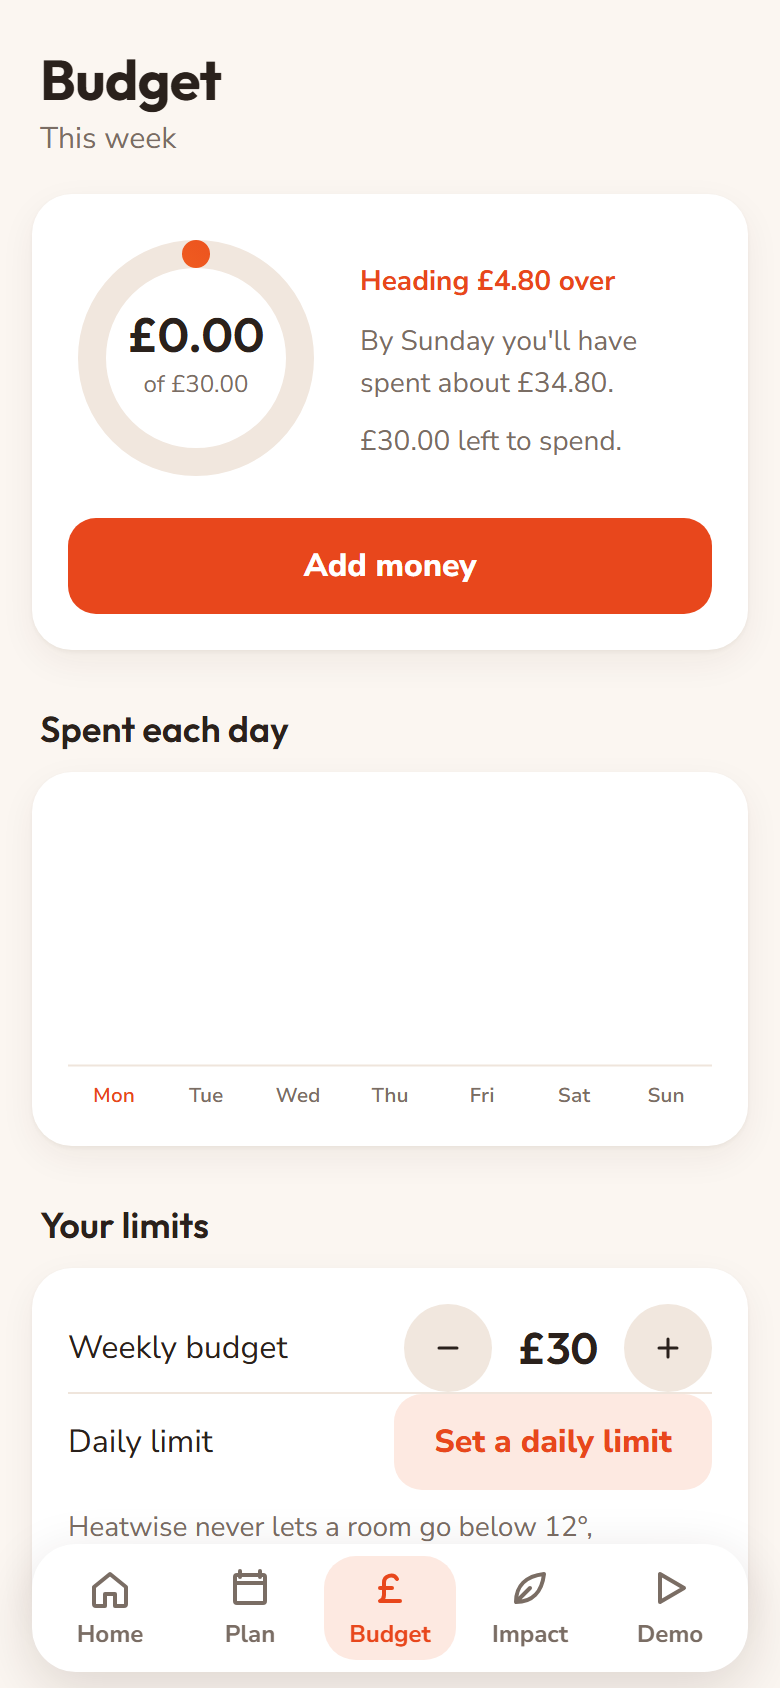
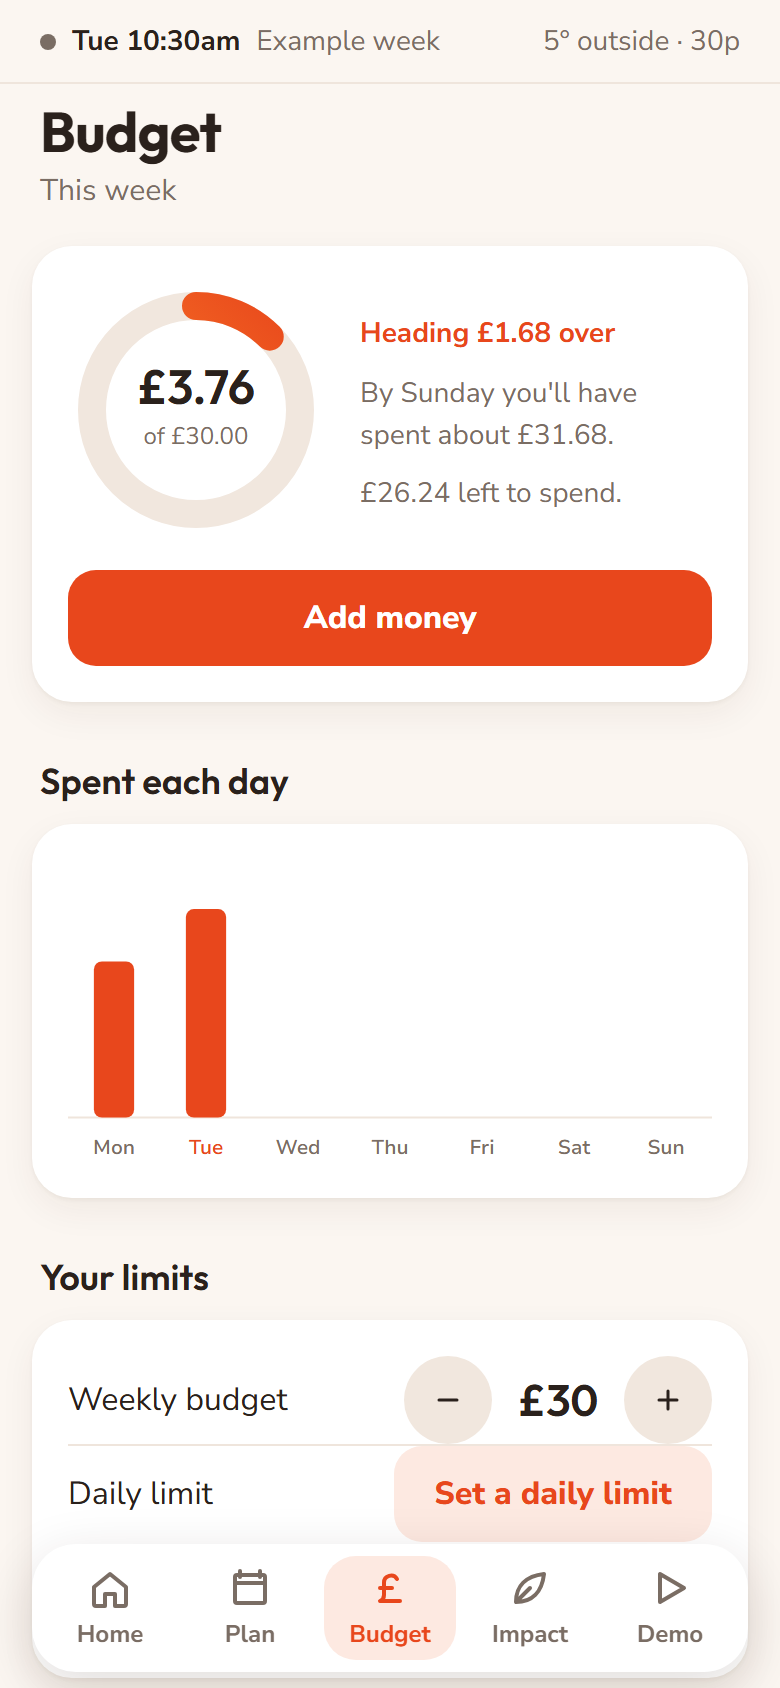
Clock bar, house drawing, and side-by-side simulation panel on wide screens

diff --git a/app/js/main.js b/app/js/main.js
@@ -1,6 +1,7 @@
 // App shell: tab bar (TabView), a navigation stack per tab, and rendering from the store.
 import { api, store, subscribe } from "./api.js";
 import { h, icon } from "./ui.js";
+import { time12 } from "./format.js";
 import * as theme from "./theme.js";
 import * as home from "./screens/home.js";
 import * as room from "./screens/room.js";
@@ -36,6 +37,9 @@ nav.push = (screen, arg) => { scroll[key()] = window.scrollY; stack().push({ scr
 nav.back = () => { stack().pop(); draw(); window.scrollTo(0, scroll[key()] || 0); };
 const key = () => nav.tab + stack().map(s => `/${s.screen}:${s.arg}`).join("");
 
+const wide = () => matchMedia("(min-width: 900px)").matches;
+matchMedia("(min-width: 900px)").addEventListener("change", () => { if (wide() && nav.tab === "demo") nav.tab = "home"; draw(); });
+
 function selectTab(id) {
   if (id === nav.tab && stack().length) nav.stacks[id] = [];  // tapping the current tab pops to root, like iOS
   scroll[key()] = window.scrollY;
@@ -52,10 +56,24 @@ function draw(pushed = false) {
     ? h("button", { class: "back", onclick: nav.back, "aria-label": `Back to ${tab.label}` }, icon("back", 20), tab.label)
     : null;
   const page = h("main", { class: pushed ? "enter" : "" }, backBtn, content);
+  const st = store.state;
+  document.getElementById("clockbar").replaceChildren(...(st ? [
+    h("span", { class: "dot" + (st.mode === "realtime" ? " live" : "") }),
+    h("b", {}, `${st.clock.slice(0, 3)} ${time12(st.clock.slice(4))}`),
+    h("span", { class: "muted" }, st.mode === "realtime" ? "Live" : "Example week"),
+    h("span", { class: "muted", style: "margin-left:auto" }, `${st.outside_c.toFixed(0)}° outside · ${st.price_p.toFixed(0)}p`),
+  ] : []));
   view.replaceChildren(page);
   document.title = `${tab.label} · Heatwise`;
 
-  bar.replaceChildren(...TABS.map(t => h("button", {
+  // Wide screens (laptop, projector): the simulation sits beside the app, and the Demo tab is not needed.
+  const sim = document.getElementById("sim");
+  if (wide()) {
+    const y = sim.scrollTop;
+    sim.replaceChildren(h("div", { class: "sim-title" }, "Simulation"), ...[demo.render(store, nav)].flat(Infinity).filter(Boolean));
+    sim.scrollTop = y;
+  } else sim.replaceChildren();
+  bar.replaceChildren(...TABS.filter(t => !(wide() && t.id === "demo")).map(t => h("button", {
     class: "tab", "aria-current": t.id === nav.tab ? "page" : null, onclick: () => selectTab(t.id),
   }, icon(t.icon, 24), t.label)));
 }

diff --git a/app/js/house.js b/app/js/house.js
@@ -1,0 +1,42 @@
+// A simple drawing of the simulated house: three rooms, who's in each, and which are heating.
+// Not a heatmap: a room is either heating (warm tint + flame) or not, with its temperature written in.
+import { roomName } from "./format.js";
+import { h } from "./ui.js";
+
+const NS = "http://www.w3.org/2000/svg";
+const el = (tag, attrs, text) => {
+  const e = document.createElementNS(NS, tag);
+  for (const [k, v] of Object.entries(attrs)) e.setAttribute(k, v);
+  if (text != null) e.textContent = text;
+  return e;
+};
+// Ground floor: kitchen and living room; upstairs: bedroom.
+const LAYOUT = { bedroom: [20, 70, 280, 90], kitchen: [20, 160, 110, 110], living: [130, 160, 170, 110] };
+
+function person(x, y) {
+  const g = el("g", { class: "person" });
+  g.append(el("circle", { cx: x, cy: y, r: 5 }), el("rect", { x: x - 5, y: y + 7, width: 10, height: 14, rx: 5 }));
+  return g;
+}
+
+export function houseView(state) {
+  const svg = el("svg", { viewBox: "0 0 320 290", role: "img",
+    "aria-label": state.rooms.map(r => `${roomName(r.name)} ${r.temp.toFixed(1)} degrees${r.occupied ? ", someone in" : ""}${r.heating ? ", heating" : ""}`).join("; ") });
+  svg.append(el("path", { class: "roof", d: "M10 72 L160 12 L310 72" }));
+  for (const r of state.rooms) {
+    const [x, y, w, hgt] = LAYOUT[r.name] || [0, 0, 0, 0];
+    svg.append(el("rect", { class: "room-box" + (r.heating ? " heating" : ""), x, y, width: w, height: hgt, rx: 6 }));
+    svg.append(el("text", { class: "room-label", x: x + 10, y: y + 20 }, roomName(r.name)));
+    svg.append(el("text", { class: "room-temp", x: x + 10, y: y + 46 }, `${r.temp.toFixed(1)}°`));
+    svg.append(el("text", { class: "room-note", x: x + 10, y: y + hgt - 10 },
+      r.heating ? "heating" : r.occupied ? "occupied" : "resting"));
+    if (r.occupied) svg.append(person(x + w - 22, y + 14));
+    if (r.heating) {
+      const f = el("g", { transform: `translate(${x + w - (r.occupied ? 44 : 22)} ${y + hgt - 10})` });
+      f.append(el("path", { class: "flame", d: "M0 0c5 0 8-3.4 8-7.8 0-4.5-3-7-4.8-10.4-.6 2.2-2 3.6-3.4 4.2.6-2.6-1-6.8-4.4-9.6.3 4.2-2.2 6.4-3.6 8.8C-9.6-12.6-8-9.8-8-7.8-8-3.4-5 0 0 0z" }));
+      svg.append(f);
+    }
+  }
+  return h("div", { class: "house" }, svg,
+    h("div", { class: "legend" }, h("span", {}, "Person = someone's in the room"), h("span", {}, "Flame = heating now")));
+}

diff --git a/app/styles.css b/app/styles.css
@@ -206,3 +206,35 @@ button, input { font: inherit; color: inherit; }
 .days { display: flex; gap: 6px; flex-wrap: wrap; }
 .days button { flex: 1; min-width: 40px; min-height: 40px; border: 0; border-radius: 10px; background: var(--track); font-weight: 700; cursor: pointer; }
 .days button.on { background: var(--accent); color: #fff; }
+
+/* Clock bar: the current (simulated) time, on every screen */
+.clockbar { position: sticky; top: 0; z-index: 2; display: flex; align-items: center; gap: 8px; margin: -16px -16px 8px;
+            padding: calc(10px + env(safe-area-inset-top)) 20px 10px; background: var(--bg); font-size: .875rem;
+            border-bottom: 1px solid var(--line); }
+.clockbar:empty { display: none; }
+.clockbar .dot { width: 8px; height: 8px; border-radius: 50%; background: var(--muted); }
+.clockbar .dot.live { background: var(--calm); }
+
+/* House drawing (Demo tab) */
+.house { position: relative; }
+.house svg { width: 100%; height: auto; display: block; }
+.house .room-box { stroke: var(--ink); stroke-width: 2; fill: var(--card); transition: fill .4s; }
+.house .room-box.heating { fill: var(--accent-soft); }
+.house .room-label { fill: var(--ink); font: 700 13px var(--head); }
+.house .room-temp { fill: var(--ink); font: 600 20px var(--head); }
+.house .room-note { fill: var(--muted); font: 600 11px var(--text); }
+.house .roof { fill: none; stroke: var(--ink); stroke-width: 2.5; stroke-linejoin: round; }
+.house .flame { fill: var(--accent); }
+.house .person { fill: var(--ink); }
+
+/* Presenting on a laptop: simulation panel beside the phone app */
+.sim { display: none; }
+@media (min-width: 900px) {
+  .stage { display: grid; grid-template-columns: 520px 420px; justify-content: center; gap: 32px; align-items: start; }
+  .sim { order: 2; display: block; position: sticky; top: 0; height: 100vh; overflow: auto; padding: 16px 0 24px; }
+  .sim .top { display: none; }
+  .sim-title { font: 700 .8125rem/1 var(--text); letter-spacing: .08em; text-transform: uppercase; color: var(--muted); margin: 12px 4px; }
+  .stage .app { margin: 0; border-left: 1px solid var(--line); border-right: 1px solid var(--line); }
+  .stage .app { width: 520px; }
+  .tabbar { left: calc(50% - 486px); right: auto; width: 520px; }
+}

diff --git a/app/js/screens/demo.js b/app/js/screens/demo.js
@@ -2,6 +2,7 @@
 // The mock calendar, a big Play button, jump to any day, and Luke's running commentary.
 import { api, store } from "../api.js";
 import { time12 } from "../format.js";
+import { houseView } from "../house.js";
 import { button, card, empty, ghosts, h, heading, icon, note, seg } from "../ui.js";
 
 export const title = "Demo";
@@ -58,6 +59,8 @@ export function render({ state, loading, error }) {
         String(speed), v => { speed = Number(v); api.load(); }, "Speed")),
       h("div", { class: "small muted", style: "margin:12px 0 6px" }, "Jump to"),
       h("div", { class: "days" }, DAYS.map((d, i) => button(d, () => { stop(); api.jump(i, 7); }, "quiet")))),
+    heading("The house right now"),
+    card(houseView(state)),
     heading("Luke's notes"),
     card(state.log.length
       ? h("div", { class: "feed" }, [...state.log].reverse().slice(0, 12).map(l => h("div", { class: `item ${l.kind}` },

diff --git a/app/index.html b/app/index.html
@@ -18,8 +18,12 @@
 <script type="module" src="/assets/js/main.js"></script>
 </head>
 <body>
+<div class="stage">
+<aside id="sim" class="sim" aria-label="Simulation"></aside>
 <div class="app">
+  <div id="clockbar" class="clockbar" aria-live="off"></div>
   <div id="view" aria-live="polite"></div>
+</div>
 </div>
 <div class="tabbar"><nav id="tabs" aria-label="Tabs"></nav></div>
 <noscript><p style="padding:16px">Heatwise needs JavaScript turned on.</p></noscript>

diff --git a/heatwise/live.py b/heatwise/live.py
@@ -636,6 +636,7 @@ class LiveHome:
                 "warmup_min": None if not np.isfinite(getattr(self, "warmup_h", np.zeros(len(self.rooms)))[i])
                               else int(round(getattr(self, "warmup_h", np.zeros(len(self.rooms)))[i] * 60)),
                 "custom": i in self.room_comfort,
+                "occupied": bool(self.occ.occupied[t, i]),  # simulated ground truth, for the house drawing
                 "status": chip,
                 "why": why,
             })

diff --git a/docs/DECISIONS.md b/docs/DECISIONS.md
@@ -230,3 +230,4 @@ So Heatwise is **7.8% cheaper with 5.5% less CO₂ at much higher comfort**. The
 | D15 | **Per-room warm-up time from physics.** For a cold room, the engine solves the RC model for how long the heater needs to reach the comfy temperature (plus 15 min), and looks that far ahead in the routine (horizons 0.5–4 h) instead of a fixed 3 h. Shown on each room's screen. | Your idea doc asked for "how long it takes that room to heat up". Over a test week: same comfort (95.3%), £33.25 vs £33.52, a small saving that grows in leakier rooms and colder weather. |
 | D16 | **Plan tab leads with "This week"**: a day-by-day agenda (today highlighted) with calendar events as coloured chips, then the heating times, then cheapest times | The calendar was hard to find. |
 | D17 | Removed the impact card from Budget | The Impact tab covers it. |
+| D18 | **Clock bar on every screen** and a **house drawing** (rooms, people, heating flames) on the Demo/simulation panel. On screens 900px or wider the simulation sits **beside** the app, so you can drive the app while the house runs. | The team found it hard to watch the Demo tab and the other tabs at once. |
